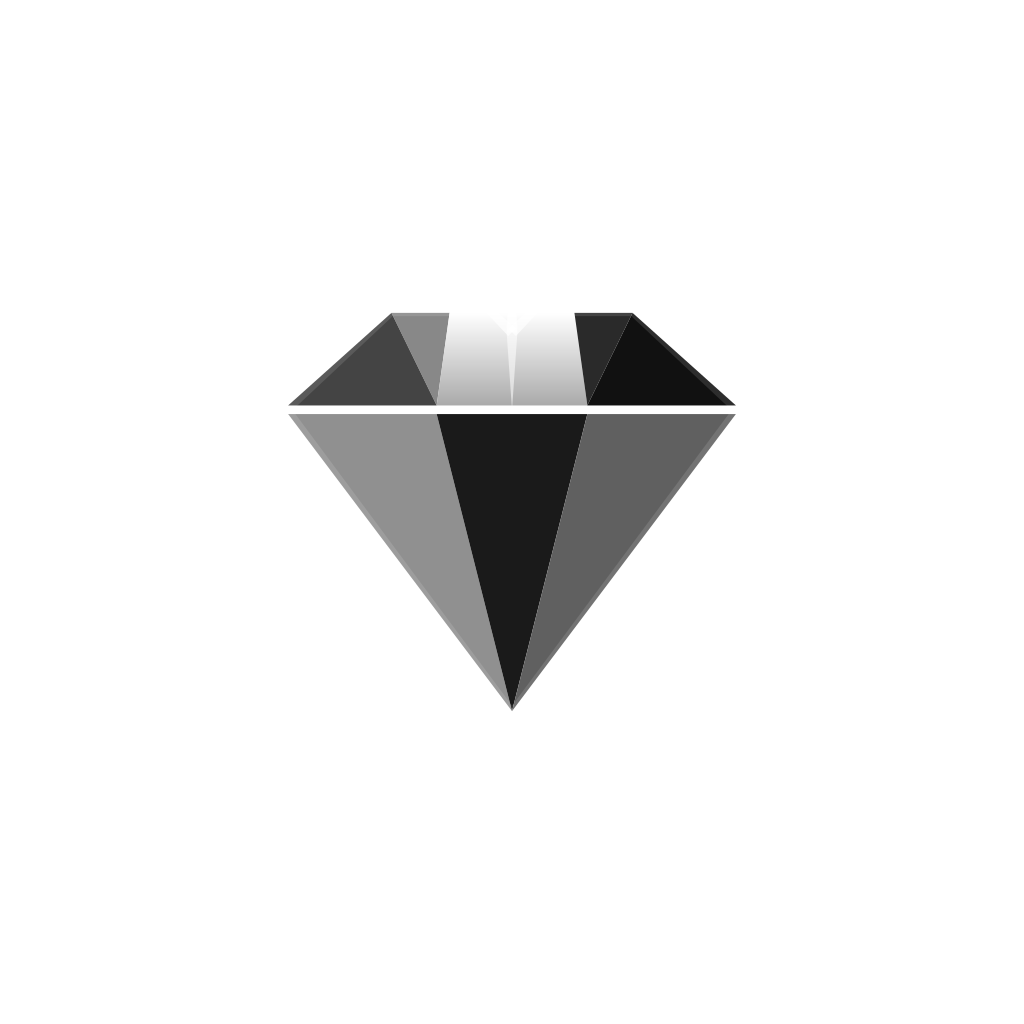
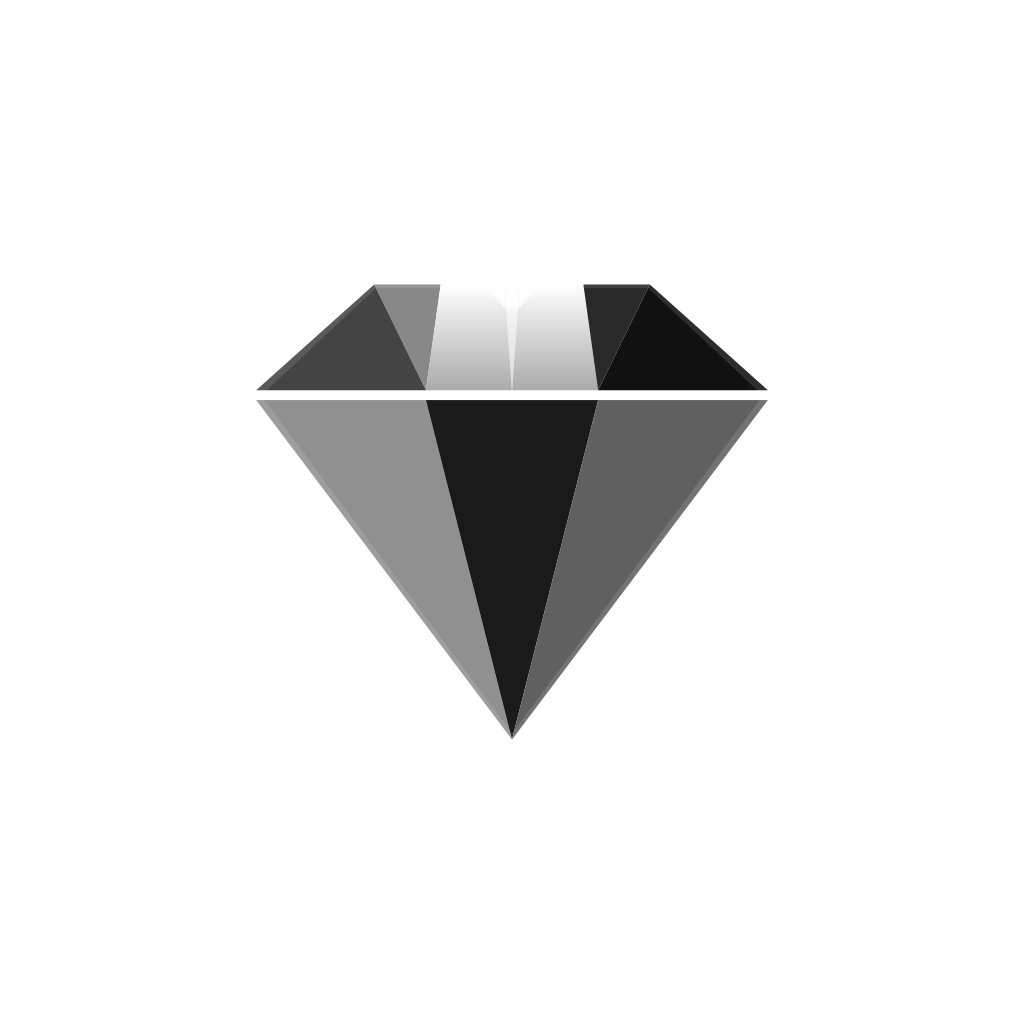
fix(geemastudio-mobile): fija diamante launcher en 48 dp
Máximo de la referencia (C): ~67% del viewport 72 dp, degradado
visible y dentro del safe zone 66 dp.

diff --git a/docs/geemastudio/CHANGELOG.md b/docs/geemastudio/CHANGELOG.md
@@ -9,9 +9,10 @@ Formato basado en [Keep a Changelog](https://keepachangelog.com/es/1.0.0/).
 
 ### Corregido (22-sep 2026 — adaptive capas + notif size)
 
-- **Launcher**: capas oficiales Android — `adaptive-icon-background.png` (degradado full-bleed) + `adaptive-icon.png` (diamante en safe zone **66 dp**). Ya no se pierde el degradado al reducir el logo.
+- **Launcher**: capas oficiales Android — `adaptive-icon-background.png` (degradado full-bleed) + `adaptive-icon.png` (diamante **48 dp** / ~67 % del viewport 72 dp — máximo de la referencia A/B/C). Ya no se pierde el degradado al reducir el logo.
 - **Push small icon**: silueta ~88 % del canvas 96×96 (antes ~55 %, se veía diminuta).
 - Spec documentada en `docs/INDEX.md` § EAS.
+- Preview QA: `apps/geemastudio-mobile/assets/_previews/launcher-48dp-preview.png` (no va al build).
 
 ### Corregido (22-sep 2026 — launcher icon safe zone)
 
